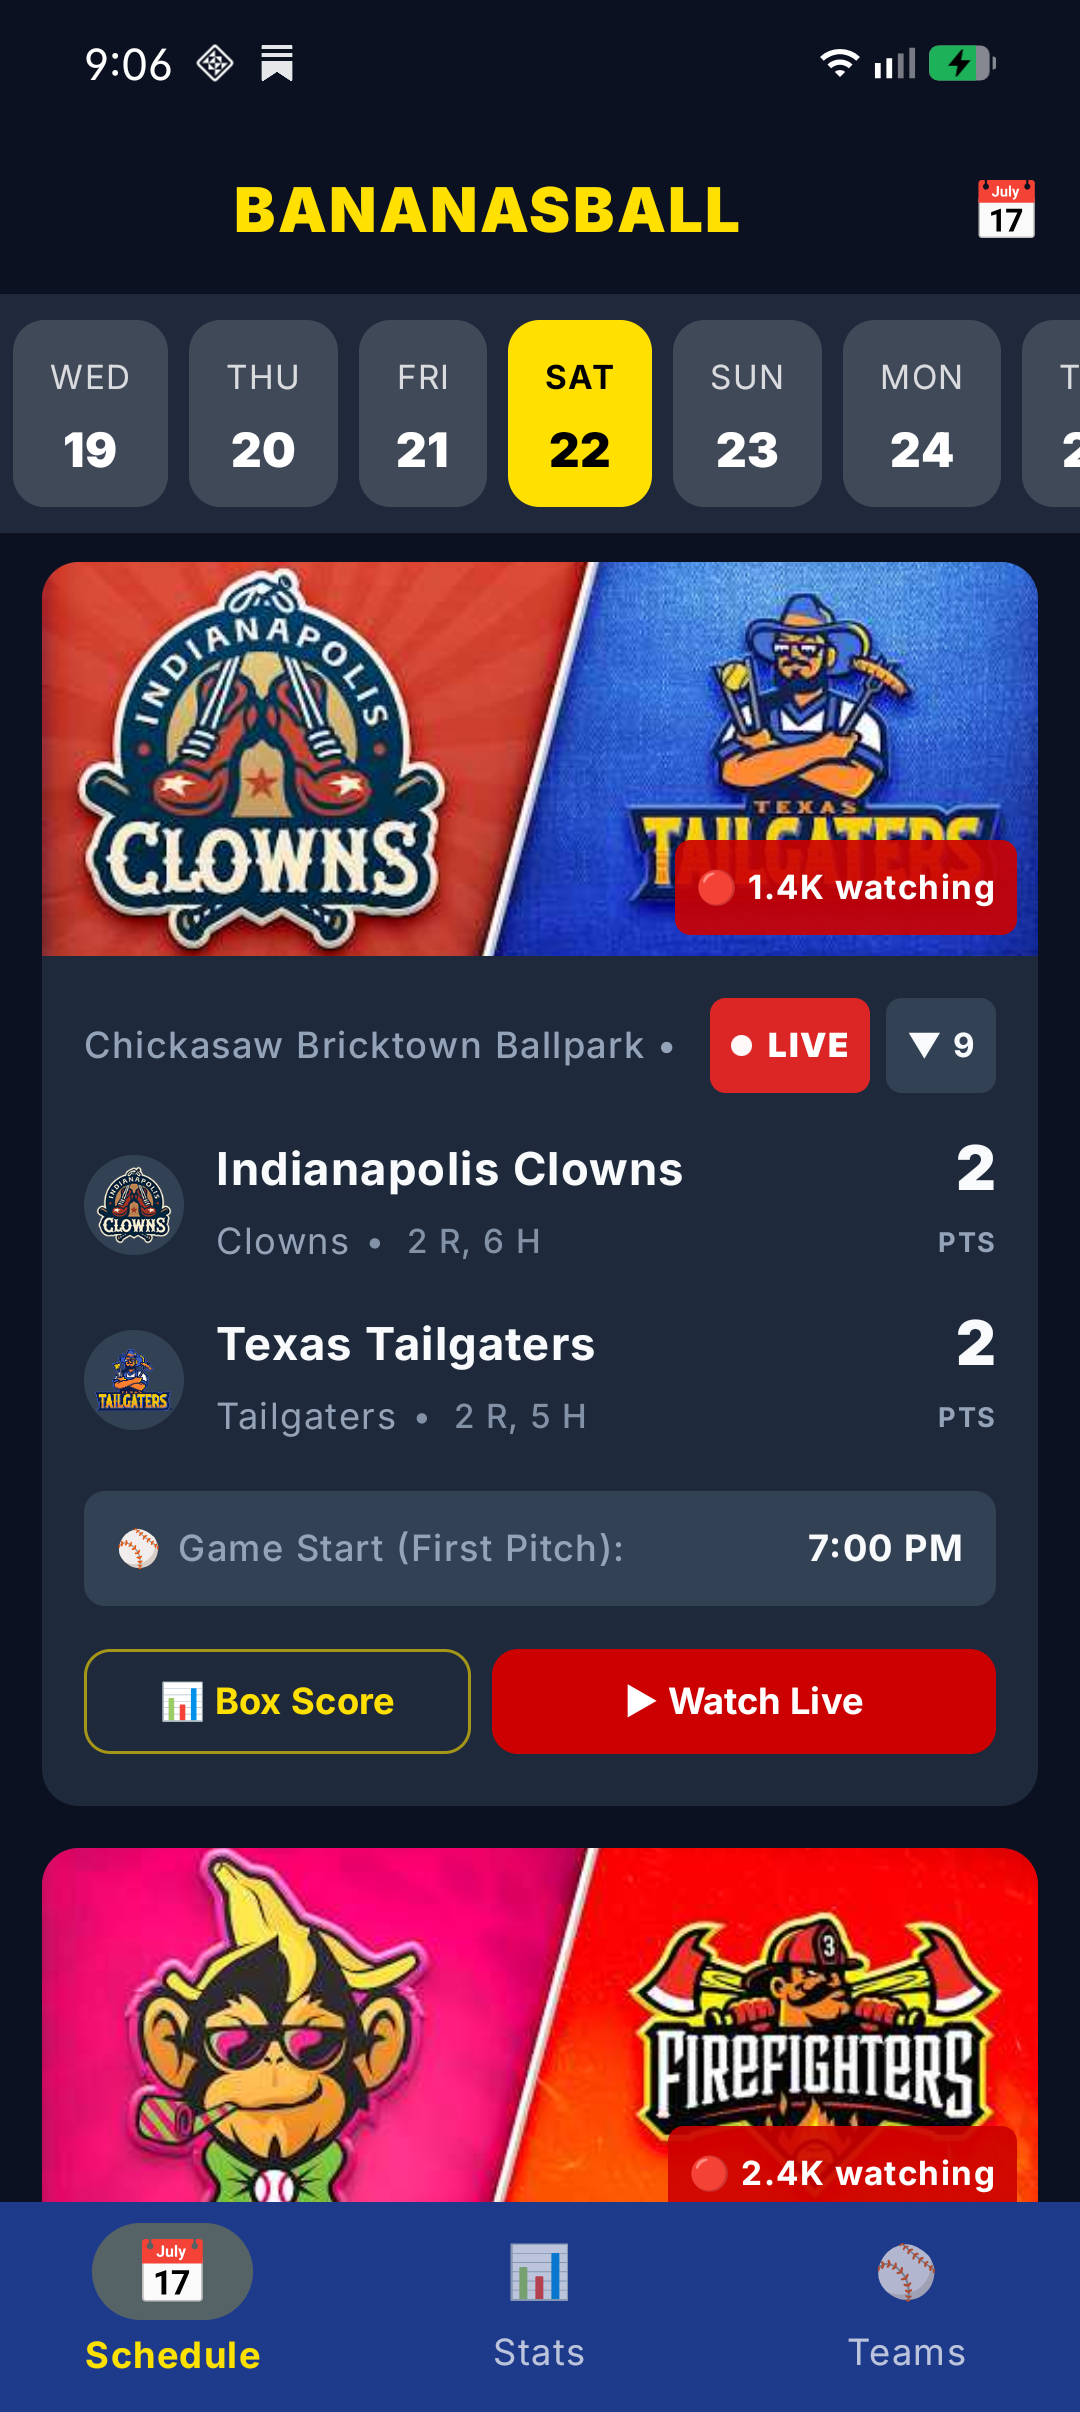
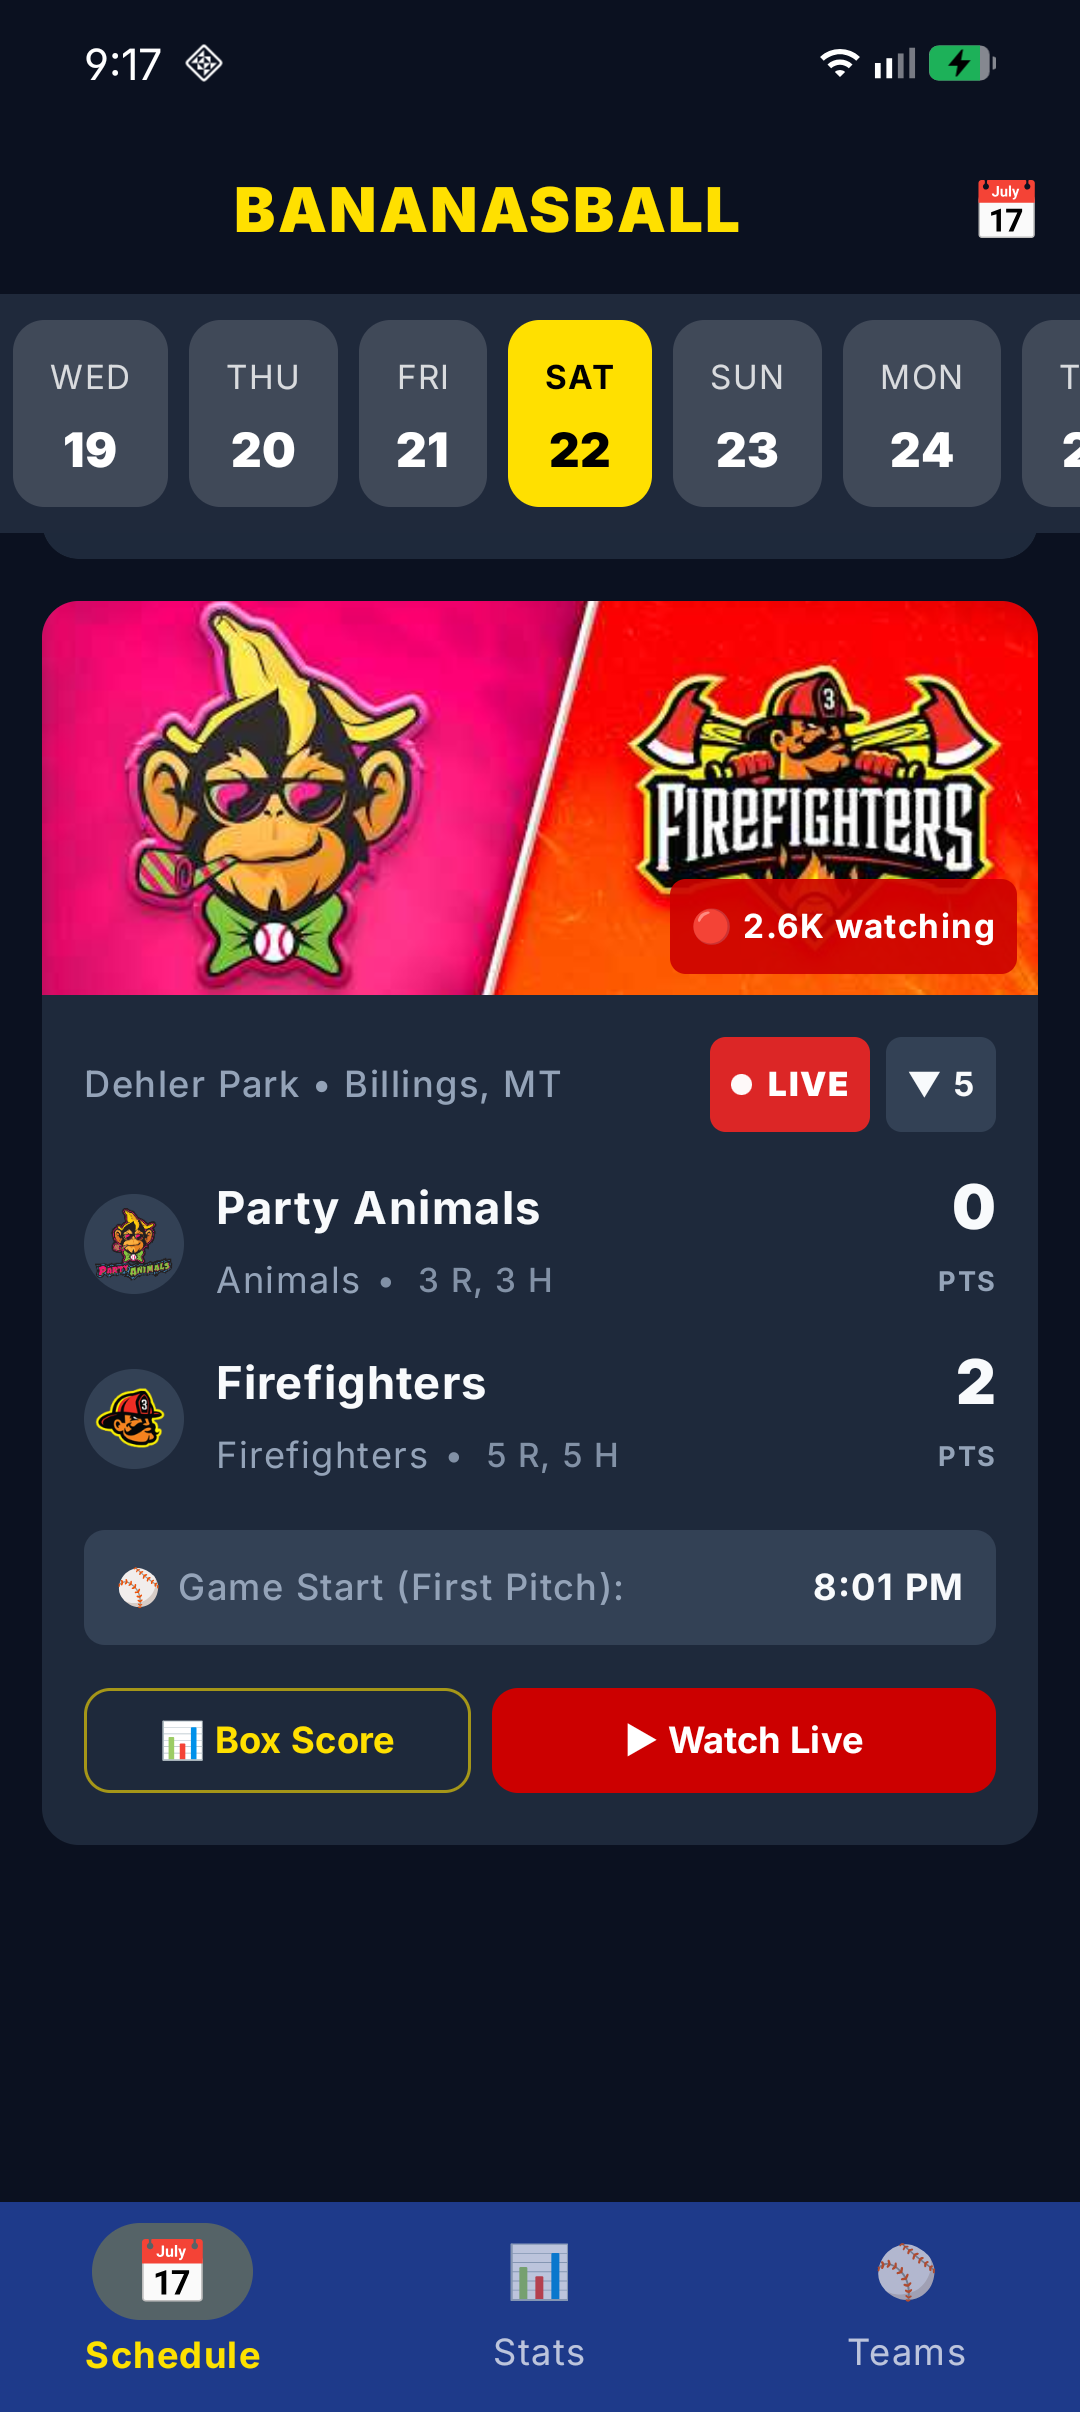
update live schedule screenshot with party animals vs firefighters card

diff --git a/shared/src/commonMain/kotlin/com/example/bananasball/ui/schedule/ScheduleScreen.kt b/shared/src/commonMain/kotlin/com/example/bananasball/ui/schedule/ScheduleScreen.kt
@@ -144,7 +144,7 @@ fun ScheduleScreen(
                     }
                 } else {
                     LazyColumn(
-                        contentPadding = PaddingValues(16.dp),
+                        contentPadding = PaddingValues(start = 16.dp, end = 16.dp, top = 16.dp, bottom = 240.dp),
                         verticalArrangement = Arrangement.spacedBy(16.dp),
                         modifier = Modifier.fillMaxSize()
                     ) {
